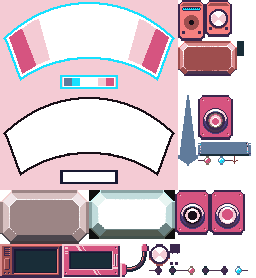
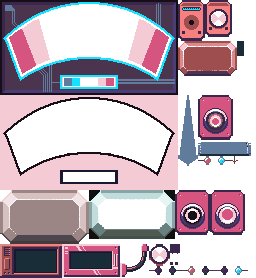
fix: make comet spin panel obviously broken

Changed region(s): [[0.0, 0.0, 0.7188, 0.3453]]

diff --git a/src/scenes/hud/components/left/CometSpinMeter.tsx b/src/scenes/hud/components/left/CometSpinMeter.tsx
@@ -23,11 +23,7 @@ export const CometSpinMeter = ({
   );
 
   const spinCover = (
-    <image
-      texture={RESOURCES["ui-left-panel"]}
-      frame="spin-cover#0"
-      visible={false}
-    />
+    <image texture={RESOURCES["ui-left-panel"]} frame="spin-cover#0" />
   );
 
   const p = window.currentScene.make.particles(
